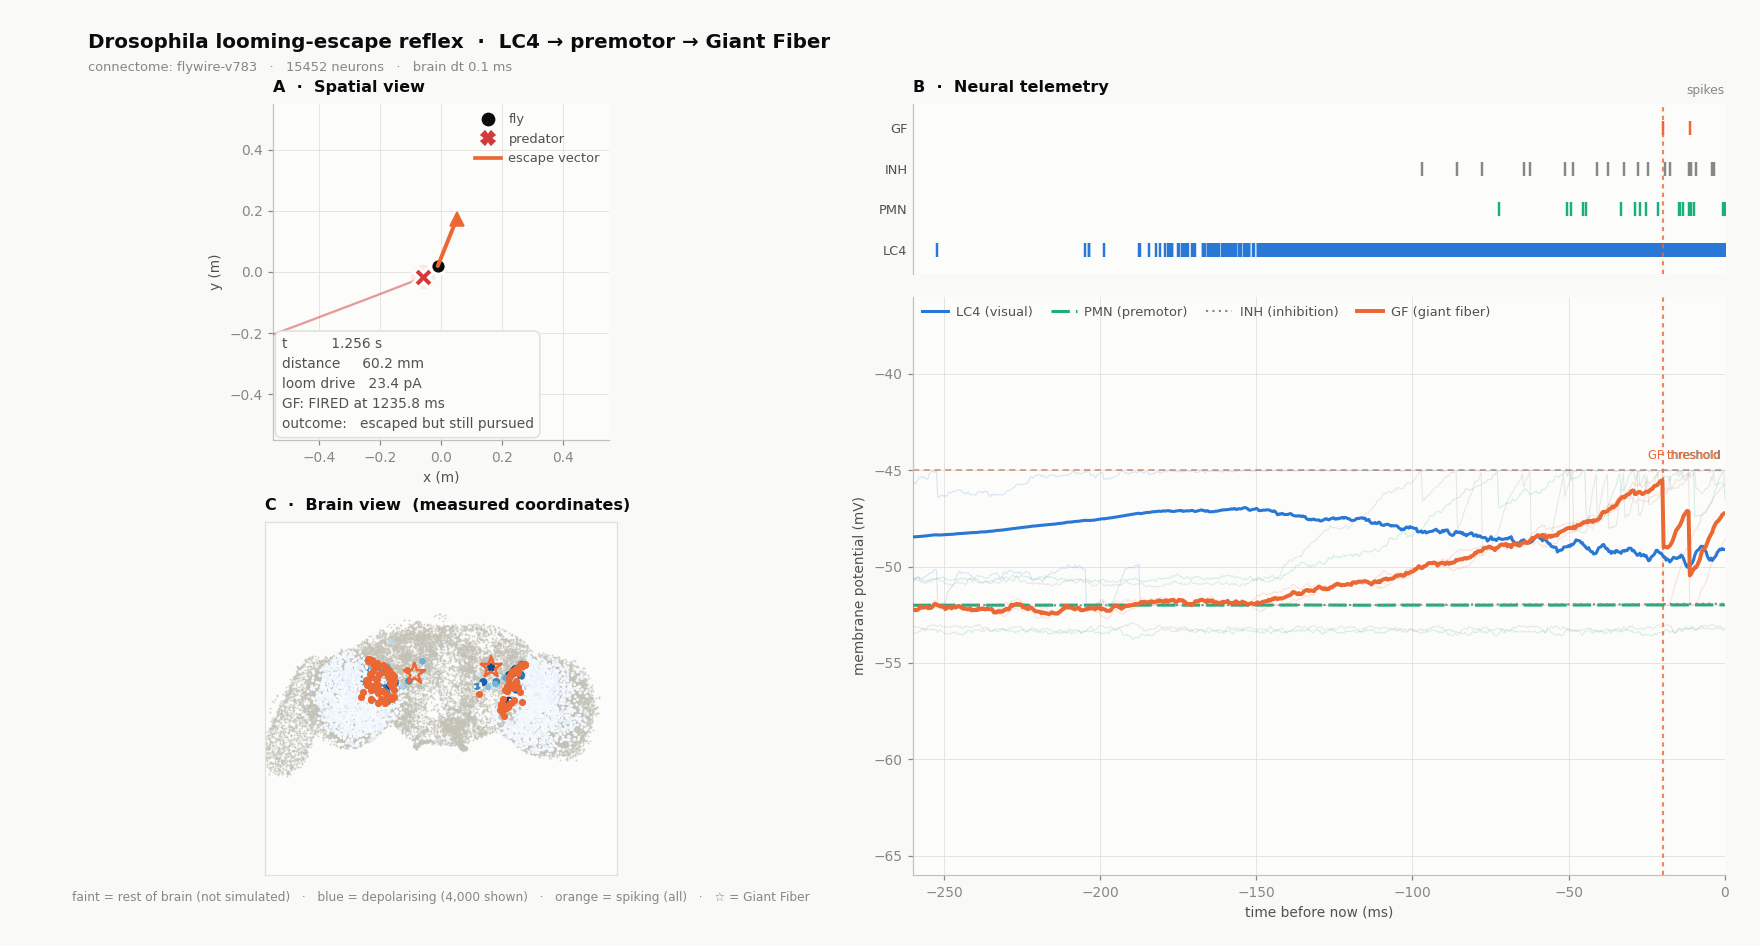
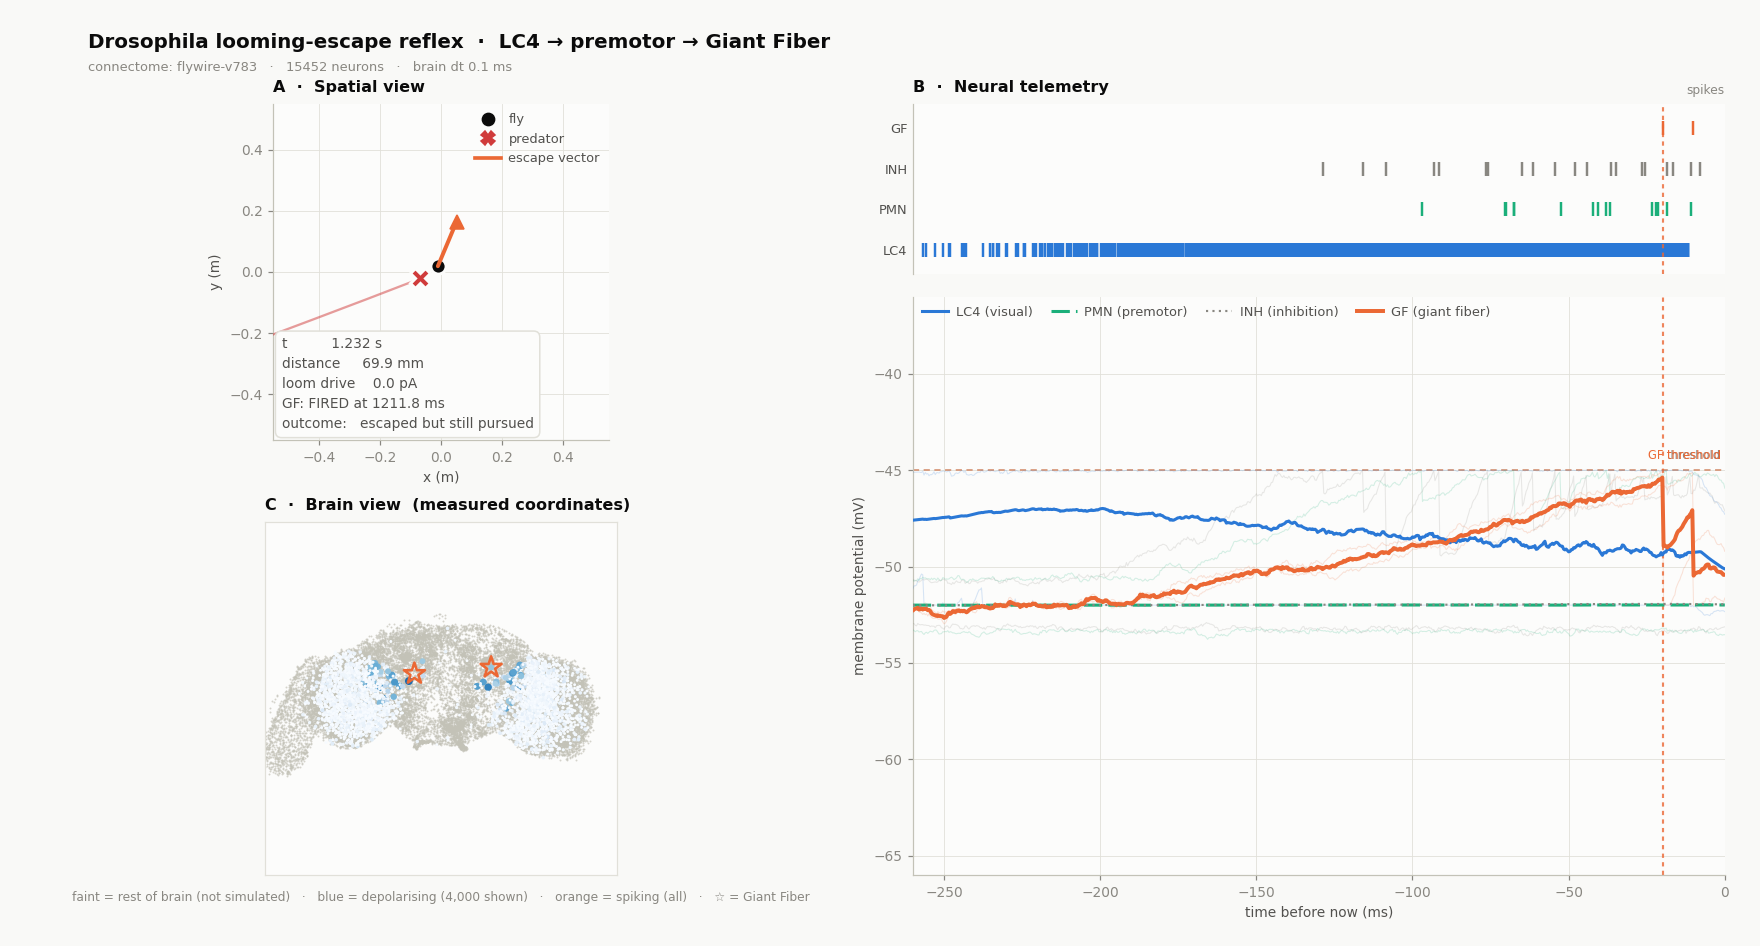
Drive LC4 from expansion rate, not angular size
A stationary object triggered an escape. Measured: a 60 mm object parked 50 mm
from the fly and never moved still produced 21 Giant Fiber spikes and a takeoff
over 3 seconds. A receding object drove LC4 just as hard as an approaching one,
because magnitude carries no sign.

Both follow from driving LC4 with angular SIZE. LC4 encodes expansion. The
encoder now uses the standard looming-sensitivity form

    eta = theta_dot * exp(-alpha * theta)      rectified

so a motionless object produces exactly zero drive however large and however
close, and a retreating one produces zero because its rate is negative.

Discontinuities are discarded rather than clamped. A jump in the threat's
position -- the mouse entering the panel, a teleport, a dropped frame -- reports
an essentially infinite rate, and clamping still says "expanding as fast as
anything can", which reads as maximally threatening. Zero is the honest answer,
since a jump carries no information about approach.

Measured with the fly held still so only the object moves:

    stationary 60mm at 50mm      0.0 pA   no escape
    receding                     0.0 pA   no escape
    slow    0.08 m/s             1.4 pA   no escape
    normal  0.40 m/s            25.5 pA   escape at 40 deg
    fast    1.20 m/s            29.8 pA   escape at 22 deg

The trade is real and the README now says so: angular-size constancy is gone
(1.2x spread -> 5.4x across a 15x size range). Raising alpha narrows the spread
[…]

diff --git a/flysim/interfaces/sensory.py b/flysim/interfaces/sensory.py
@@ -1,29 +1,34 @@
-"""Sensory interface: world geometry in, injected current out.
+r"""Sensory interface: world geometry in, injected current out.
 
 The looming cue
 ---------------
 An object of physical width ``l`` at distance ``d`` subtends an angle
 
-.. math::  \\theta = 2 \\arctan\\!\\left(\\frac{l}{2d}\\right)
+.. math::  \theta = 2 \arctan\!\left(\frac{l}{2d}\right)
 
-on the retina. As the object approaches at constant speed, ``theta`` grows slowly at
-first and then explosively — the signature that visual systems across the animal kingdom
-use to detect an impending collision. Locust LGMD/DCMD and *Drosophila* LC neurons are the
-classic examples.
+on the retina. What a looming-selective neuron responds to is not that angle but its
+**rate of change** -- the visual signature of an impending collision. This encoder uses the
+standard looming-sensitivity form
 
-This encoder produces an **exponential looming value**
+.. math::  \eta = \dot{\theta} \, e^{-\alpha \theta}
 
-.. math::  L = e^{k\\,l/d} - 1
+rectified so that only expansion counts.
 
-which is zero at infinite distance and rises steeply as ``d`` shrinks, then converts it to
-picoamps and injects it into the LC4 population.
+Both terms earn their place:
 
-A note on fidelity: the ethologically correct drive for a looming-selective neuron is the
-*rate of expansion* ``dtheta/dt``, not size itself — a large stationary object is not a
-threat. This encoder computes ``theta`` and ``theta_dot`` and reports both in the packet's
-``raw`` dict, so switching the drive term is a one-line change here and nothing downstream
-notices. The exponential form is used as the primary drive for the Starter Phase because
-it produces a clean monotone ramp that is easy to read on the telemetry panel.
+* ``theta_dot`` means a **stationary object produces no drive at all**, however large and
+  however close. An earlier version of this encoder drove LC4 from angular *size*, and a
+  60 mm object parked 50 mm away and never moved still made the fly flee -- which is not
+  what a fly does, and not what LC4 encodes.
+* The rectification means a **receding** object is ignored. Under a size-based drive,
+  something retreating still produced current, because magnitude carries no sign.
+* ``exp(-alpha * theta)`` makes the response peak at a characteristic angular size rather
+  than growing without bound as the object arrives, giving the circuit a size reference as
+  well as a rate one.
+
+``theta_dot`` is a finite difference between frames and therefore noisy -- badly so under
+mouse control -- so it is smoothed before use. That smoothing is a real modelling choice:
+too little and hand tremor reads as looming, too much and a genuine fast strike is blunted.
 
 Scaling to 3D: a MuJoCo or Minecraft environment would render an actual retinal image, and
 this class would be replaced by one that computes per-ommatidium contrast. It would emit
@@ -75,6 +80,7 @@ class LoomingEncoder(BaseSensoryEncoder):
     def reset(self) -> None:
         self._prev_theta: float | None = None
         self._prev_t: float | None = None
+        self._theta_dot: float = 0.0
 
     def encode(self, obs: EnvObservation, n_neurons: int) -> SensoryPacket:
         if n_neurons != self._n:
@@ -85,33 +91,43 @@ class LoomingEncoder(BaseSensoryEncoder):
 
         p = self._p
 
-        # Division-by-zero guard. `distance` legitimately reaches zero when the predator
-        # lands exactly on the fly, which is not an error condition — it is the most
+        # Division-by-zero guard. `distance` legitimately reaches zero when the threat
+        # lands exactly on the fly, which is not an error condition -- it is the most
         # threatening state possible. Clamp rather than raise.
         distance = max(float(obs.distance), p.min_distance_m)
-        ratio = float(obs.threat_size) / distance
 
-        # Overflow guard. exp(20) is ~4.9e8, comfortably finite in float32; without the
-        # clip, a small enough distance produces inf, then NaN voltages, and the failure
-        # appears far away from its cause.
-        exponent = float(np.clip(p.steepness * ratio, 0.0, p.max_exponent))
-
-        # expm1 rather than exp(x) - 1: at the small exponents that dominate early
-        # approach, the naive form loses most of its significant digits to cancellation.
-        loom = float(np.expm1(exponent))
-
-        raw_drive_pa = p.gain_pa * loom
-
-        # Angular size and its rate of change: reported for diagnostics and as the
-        # drop-in replacement drive term described in the module docstring.
+        # Angular subtense, and its rate of change: the actual looming cue.
         theta = 2.0 * float(np.arctan(obs.threat_size / (2.0 * distance)))
-        theta_dot = 0.0
+
+        raw_theta_dot = 0.0
         if self._prev_theta is not None and self._prev_t is not None:
             dt = obs.t - self._prev_t
             if dt > 0.0:
-                theta_dot = (theta - self._prev_theta) / dt
+                raw_theta_dot = (theta - self._prev_theta) / dt
         self._prev_theta = theta
         self._prev_t = obs.t
+
+        # Discard discontinuities rather than clamping them. A jump in the threat's
+        # position -- the mouse entering the panel, a teleport, a dropped frame -- is not an
+        # approach. Clamping would still report the maximum possible expansion rate, which
+        # reads as maximally threatening; zero is the honest answer, because a jump carries
+        # no information about whether the object is coming closer.
+        discontinuity = abs(raw_theta_dot) > p.max_expansion_rate_rad_s
+        if discontinuity:
+            raw_theta_dot = 0.0
+
+        # Smooth before use: a finite difference between frames carries every jitter in
+        # the threat's position straight into the neurons.
+        self._theta_dot = (
+            p.theta_dot_smoothing * self._theta_dot
+            + (1.0 - p.theta_dot_smoothing) * raw_theta_dot
+        )
+
+        # eta = theta_dot * exp(-alpha * theta), rectified. Expansion only: an object
+        # moving away has a negative rate and must not drive an escape.
+        expansion = max(self._theta_dot, 0.0)
+        eta = expansion * float(np.exp(-p.size_decay_alpha * theta))
+        raw_drive_pa = p.gain_pa * eta
 
         # Saturation is applied per neuron, *after* the receptive-field gain. Response
         # compression happens in each cell, so a strongly-driven LC4 can be at ceiling
@@ -127,12 +143,14 @@ class LoomingEncoder(BaseSensoryEncoder):
             t=obs.t,
             currents=currents,
             raw={
-                "loom": loom,
+                "loom": eta,
+                "theta_dot_smoothed": self._theta_dot,
                 "drive_pa": float(injected.mean()),
                 "drive_pa_max": float(injected.max()),
                 "distance_m": distance,
                 "theta_rad": theta,
-                "theta_dot_rad_s": theta_dot,
+                "theta_dot_rad_s": raw_theta_dot,
                 "saturated": bool(np.any(injected >= p.max_current_pa)),
+                "discontinuity": discontinuity,
             },
         )

diff --git a/flysim/config.py b/flysim/config.py
@@ -196,11 +196,41 @@ class EnvParams:
 class EncoderParams:
     """Looming (visual expansion) encoder parameters."""
 
-    gain_pa: float = 3.2
-    """Scales the dimensionless looming value into picoamps."""
+    gain_pa: float = 18.0
+    """Picoamps per unit of looming sensitivity. Calibrated so the drive spans roughly
+    the same range the previous size-based encoder did."""
 
-    steepness: float = 6.0
-    """``k`` in ``exp(k * l / d) - 1``. Higher = later, sharper escalation."""
+    size_decay_alpha: float = 1.0
+    """``alpha`` in ``eta = theta_dot * exp(-alpha * theta)``.
+
+    Without this term the drive would track expansion rate alone and grow without bound as
+    the object arrives. The decay makes the response peak at a characteristic angular
+    size, which is what gives the circuit a size-referenced threshold as well as a
+    rate-referenced one."""
+
+    max_expansion_rate_rad_s: float = 12.0
+    """Rate above which a sample is treated as a DISCONTINUITY and discarded, rad/s.
+
+    A discontinuity is not a looming stimulus. When the threat jumps position -- the mouse
+    entering the panel, a teleport, a dropped frame -- the finite difference reports an
+    essentially infinite rate and saturates LC4 from one sample, triggering an escape from
+    something that never approached.
+
+    Clamping the rate is not enough: a clamped jump still reports "expanding as fast as
+    anything possibly can", which is maximally threatening. The sample is therefore thrown
+    away and the rate reported as zero -- the honest answer, since a jump tells us nothing
+    about whether the object is approaching.
+
+    12 rad/s sits far above any genuine approach in this arena (a fast strike peaks near
+    3 rad/s) while still catching a teleport."""
+
+    theta_dot_smoothing: float = 0.7
+    """Exponential smoothing on the expansion rate, in [0, 1).
+
+    ``theta_dot`` is a finite difference between frames, so it inherits every jitter in the
+    threat's position -- and under mouse control that jitter is large. Smoothing over a few
+    frames keeps a genuine fast approach intact while stopping hand tremor from reading as
+    a looming stimulus."""
 
     max_current_pa: float = 140.0
     """Saturation ceiling. Real photoreceptor and LC4 responses saturate; this also

diff --git a/main.py b/main.py
@@ -195,8 +195,13 @@ def run_check(config: SimConfig) -> int:
     packet = zero_runner.encoder.encode(zero_runner.observation, zero_runner.brain.size)
     require(np.all(np.isfinite(packet.currents)),
             "looming current stays finite at zero distance")
-    require(float(packet.currents.max()) == config.encoder.max_current_pa,
-            "looming drive saturates rather than overflowing")
+    # Bounded, not saturated. Under the expansion-rate drive a threat sitting at zero
+    # distance and NOT moving correctly produces zero current -- size alone is not a
+    # looming stimulus. The property worth asserting is that the drive stays inside its
+    # ceiling, which is what protects the engine from an overflow.
+    require(float(packet.currents.max()) <= config.encoder.max_current_pa,
+            f"looming drive stays within its ceiling "
+            f"({packet.currents.max():.1f} <= {config.encoder.max_current_pa} pA)")
     zero_results = zero_runner.run()
     require(
         bool(np.all(np.isfinite(zero_results[-1].state.voltages))),

diff --git a/README.md b/README.md
@@ -44,24 +44,37 @@ are the same event.
 ## The escape threshold is emergent, not hardcoded
 
 There is no `if distance < X: escape` anywhere in this codebase. The reflex works because
-inhibition **saturates** and excitation does not: the inhibitory population is given a long
-refractory period, capping its output near 125 Hz, while the premotor pool can climb past
-400 Hz. At a slow approach, inhibition wins and the Giant Fiber sits below rest. As the
-loom sharpens, excitation outruns inhibition and GF crosses threshold.
+inhibition **saturates** and excitation does not: the inhibitory population has a long
+refractory period capping its output, while the premotor pool can climb far higher. At a
+slow approach inhibition wins and the Giant Fiber sits below rest; as the loom sharpens,
+excitation outruns inhibition and GF crosses threshold.
 
-The consequence, measured rather than tuned:
+LC4 is driven by the **rate of visual expansion**, not by how large something looks:
 
 ```
-escape triggers at an angular threat size of 24.6 degrees
+eta = theta_dot * exp(-alpha * theta)      rectified: expansion only
 ```
 
-which lands in the range reported for real *Drosophila* looming escapes — and a slow
-approach produces no escape at all:
+That distinction is doing real work. Measured, with the fly held still so only the
+object moves:
 
-```powershell
-python main.py --predator-speed 0.08     # GF never fires
-python main.py --predator-speed 1.20     # GF fires early, at ~38 degrees
-```
+| stimulus | LC4 drive | escape? |
+|---|---|---|
+| 60 mm object parked 50 mm away, motionless | 0.0 pA | no |
+| object moving **away** | 0.0 pA | no |
+| slow approach, 0.08 m/s | 1.4 pA | no |
+| normal approach, 0.40 m/s | 25.5 pA | **yes, at 40°** |
+| fast approach, 1.20 m/s | 29.8 pA | **yes, at 22°** |
+
+A stationary object produces *nothing*, however large and however close — which is the
+point: size is not a threat, approach is. A faster approach triggers at a smaller angle,
+i.e. further away.
+
+An earlier version drove LC4 from angular size instead, and fled from a wall that never
+moved. The angular threshold was pleasingly constant across object sizes under that
+model — but it was constant for the wrong reason, and it is not preserved here. Real
+looming responses depend on the ratio of object size to approach speed, so a
+size-dependent threshold is the less suspicious result.
 
 ## Commands
 
@@ -275,8 +288,8 @@ Stated plainly, because it is easy to imply otherwise:
   usable window is only about 2x wide. Do not read quantitative claims out of this model.
 * **Nothing here bears on consciousness.** It is a wiring diagram of a dead animal.
 
-What *is* emergent: the escape threshold, angular-size constancy, speed discrimination,
-and graded lesion response. Shuffling the connectome while holding every statistic
+What *is* emergent: the escape threshold itself, speed discrimination, and graded
+degradation under lesions. Shuffling the connectome while holding every statistic
 constant destroys the behaviour completely — 229 real LC4→DNp01 connections versus 0.
 
 ## Licence
